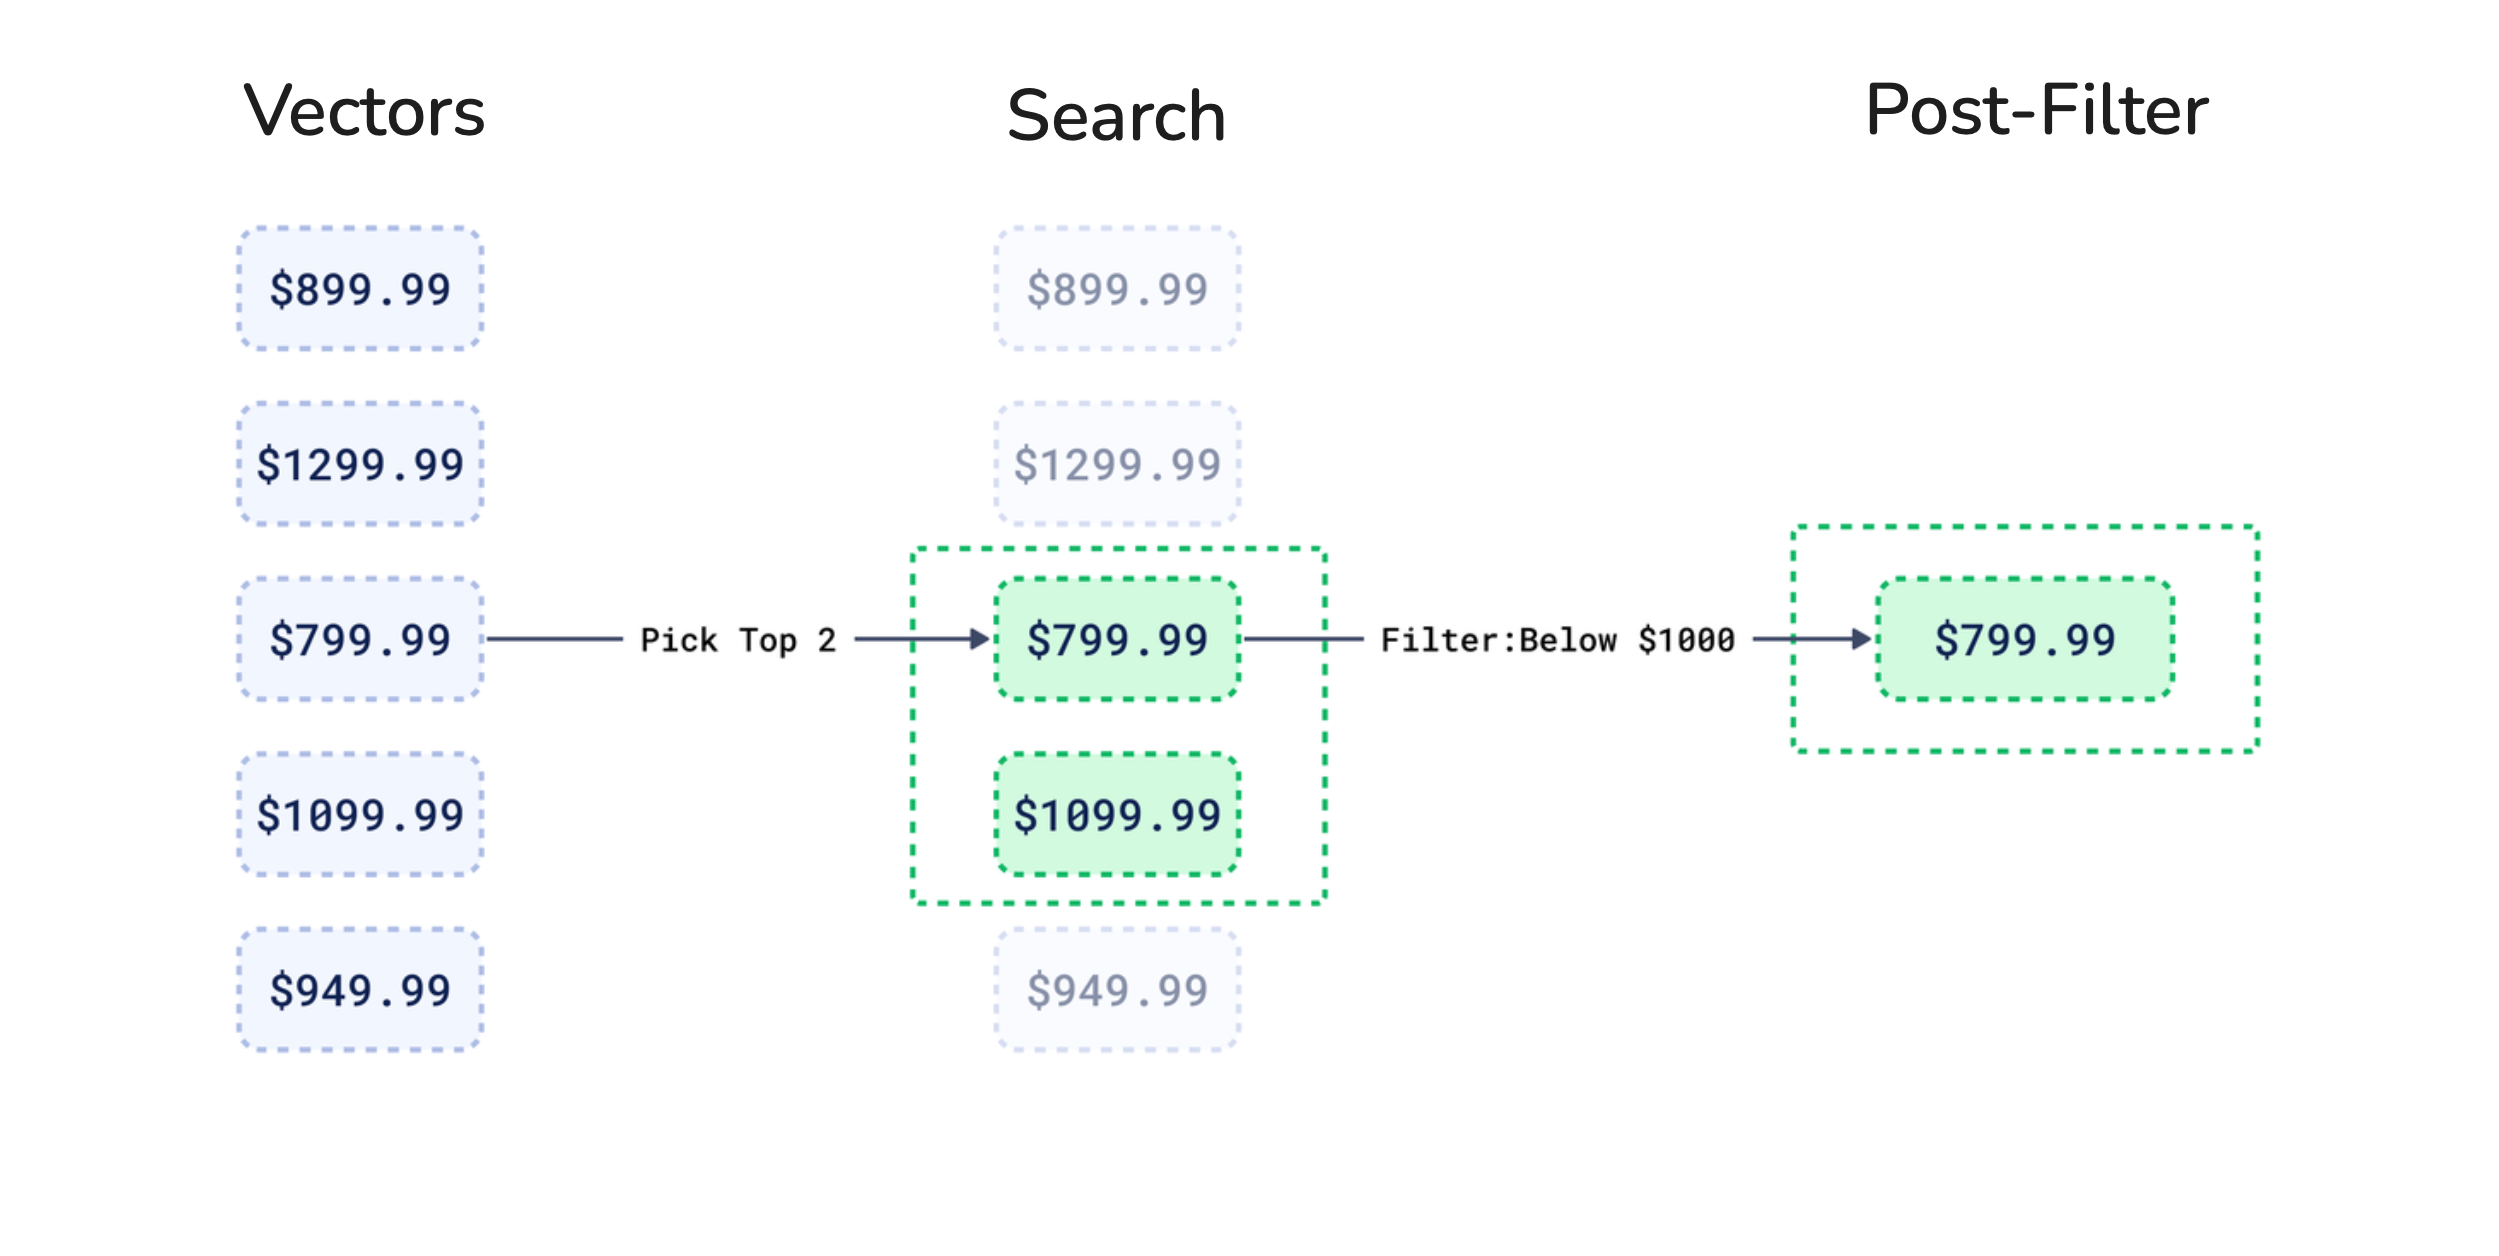
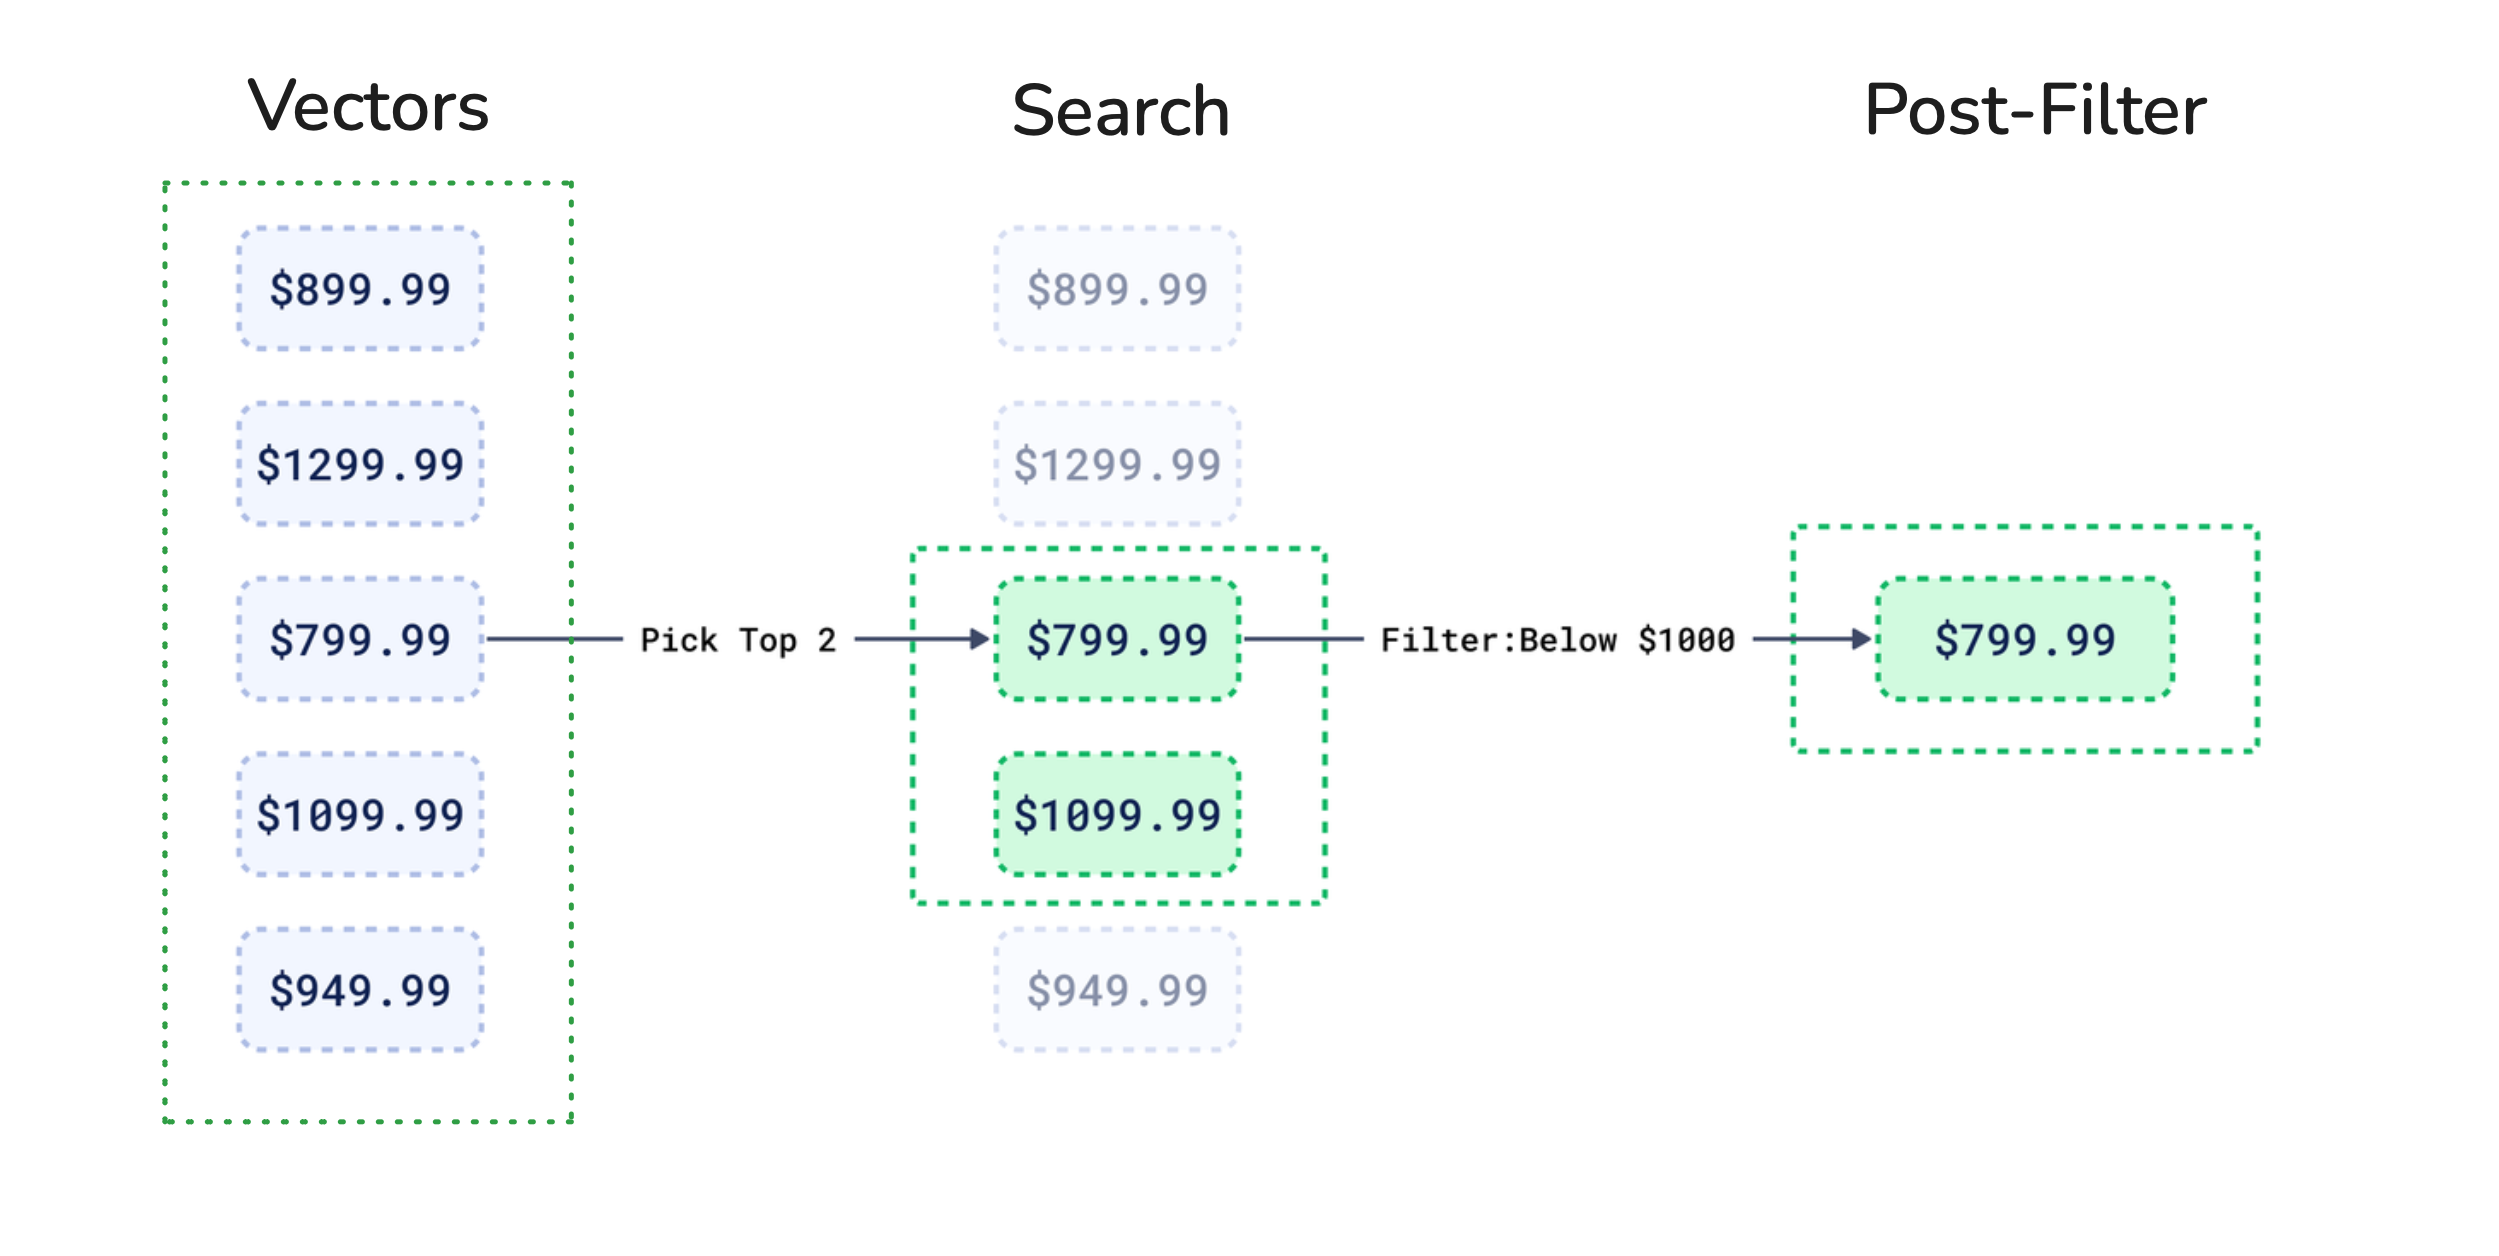
update everything

diff --git a/qdrant-landing/content/articles/vector-search-filtering.md b/qdrant-landing/content/articles/vector-search-filtering.md
@@ -1,5 +1,5 @@
 ---
-title: "A Complete Guide to Filtering"
+title: "A Complete Guide to Filtering in Vector Search"
 short_description: "Merging different search methods to improve the search quality was never easier"
 description: "Learn everything about filtering in Qdrant. Discover key tricks and best practices to boost semantic search performance and reduce Qdrant's resource usage."
 preview_dir: /articles_data/vector-search-filtering/preview
@@ -11,7 +11,7 @@ date: 2024-09-10T00:00:00.000Z
 ---
 Imagine you sell computer hardware. To help shoppers easily find products on your website, you need to have a **user-friendly [search engine](https://qdrant.tech)**.
 
-![vector-search-filtering](/articles_data/vector-search-filtering/vector-search-filtering.png)
+![vector-search-ecommerce](/articles_data/vector-search-filtering/vector-search-ecommerce.png)
 
  If you’re selling computers and have extensive data on laptops, desktops, and accessories, your search feature should guide customers to the exact device they want - or a **very similar** match needed.
 
@@ -34,7 +34,7 @@ Though we may not be able to decipher the vector, we are able to derive addition
 
 ## What is filtering?
 
-When searching for the perfect computer, your customers may end up with results that are mathematically similar to the search entry, but not exact. For example, if they are searching for **laptops under $1000**, a simple [vector search](/advanced-search/) without constraints might still show laptops over $1000. 
+When searching for the perfect computer, your customers may end up with results that are mathematically similar to the search entry, but not exact. For example, if they are searching for **laptops under $1000**, a simple [vector search](/advanced-search/) without constraints might still show other laptops over $1000. 
 
 This is why [semantic search](/advanced-search/) alone **may not be enough**. In order to get the exact result, you would need to enforce a payload filter on the `price`. Only then can you be sure that the search results abide by the chosen characteristic.
 
@@ -88,11 +88,14 @@ The easiest way to reach that "Hello World" moment is to [**try filtering in a l
 
 ## Qdrant's approach to filtering 
 
+Qdrant follows a specific method of searching and filtering through dense vectors. 
+
 Let's take a look at this **3-stage diagram**. In this case, we are trying to find the nearest neighbour to the query vector **(green)**. Your search journey starts at the bottom **(orange)**.
 
 By default, Qdrant connects all your data points within the [**vector index**](/documentation/concepts/indexing/). After you [**introduce filters**](/documentation/concepts/filtering/), some data points become disconnected. Vector search can't cross the grayed out area and it won't reach the nearest neighbor. 
 How can we bridge this gap? 
 
+**Figure 1:** How Qdrant maintains a filterable vector index. 
 ![filterable-vector-index](/articles_data/vector-search-filtering/filterable-vector-index.png)
 
 [**Filterable vector index**](/documentation/concepts/indexing/): This technique builds additional links **(orange)** between leftover data points. The filtered points which stay behind are now traversible once again. Qdrant uses special category-based methods to connect these data points. 
@@ -103,23 +106,27 @@ How can we bridge this gap?
 
 The filterable vector index is Qdrant's solves pre and post-filtering problems by adding specialized links to the search graph. It aims to maintain the speed advantages of vector search while allowing for precise filtering, addressing the inefficiencies that can occur when applying filters after the vector search.
 
-#### Pre-filtering reduces your search options
+#### Pre-filtering 
+
 In pre-filtering, a search engine first narrows down the dataset based on chosen metadata values, and then searches within that filtered subset. This reduces unnecessary computation over a dataset that is potentially much larger.
 
-> If the filters are too restrictive, you might sever links between points too early in the process. When the semantic search process begins, it won’t be able to travel to those locations. 
+The choice between pre-filtering and using the filterable HNSW index depends on filter cardinality. When metadata cardinality is too low, the filter becomes restrictive and it can disrupt the connections within the graph. This leads to fragmented search paths (as in **Figure 1**). When the semantic search process begins, it won’t be able to travel to those locations. 
 
-**Figure 1:** We start with five products with different prices. First, the $1000 price **filter** is applied, narrowing down the selection of laptops. Then, a vector search finds the relevant **results** within this filtered set. Unfortunately, one result is missed. 
+However, Qdrant still benefits from pre-filtering **under certain conditions**. In cases of low cardinality, Qdrant's query planner stops using HNSW and switches over to the payload index alone. This makes the search process much cheaper and faster than if using HNSW.
+
+**Figure 2:** On the user side, this is how filtering looks. We start with five products with different prices. First, the $1000 price **filter** is applied, narrowing down the selection of laptops. Then, a vector search finds the relevant **results** within this filtered set. 
 
 ![pre-filtering-vector-search](/articles_data/vector-search-filtering/pre-filtering.png)
 
-These issues become more pronounced when dealing with HNSW graph structures, where pre-filtering can disrupt the connections within the graph, leading to fragmented search paths. 
+In conclusion, pre-filtering is efficient in specific cases when you use small datasets with low cardinality metadata. However, pre-filtering should not be used over large datasets as it breaks too many links in the HNSW graph, causing lower accuracy.
 
-#### Post-filtering wastes good search results
+#### Post-filtering 
+
 In post-filtering, a search engine first looks for similar vectors and retrieves a larger set of results. Then, it applies filters to those results based on metadata. The problem with post-filtering becomes apparent when using low-cardinality filters. 
 
 > When you apply a low-cardinality filter after performing a vector search, you often end up discarding a large portion of the results that the vector search returned.  
 
-**Figure 2:** In the same example, we have five laptops. First, the vector search finds the relevant **results**, but they may not meet the price match. When the $1000 price **filter** is applied, two other potential results are discarded.
+**Figure 3:** In the same example, we have five laptops. First, the vector search finds the top two relevant **results**, but they may not meet the price match. When the $1000 price **filter** is applied, other potential results are discarded.
 
 ![post-filtering-vector-search](/articles_data/vector-search-filtering/post-filtering.png)
 
@@ -152,13 +159,13 @@ Now, set the filter to "price is less than $1000":
   "range": {
     "gt": null,
     "gte": null,
-    "lt": 1000,
-    "lte": null
+    "lt": null,
+    "lte": 1000
   }
 }
 ```
 
-When a price filter of < $1000 is applied, vector search returns the following results:
+When a price filter of equal/less than $1000 is applied, vector search returns the following results:
 
 ```json
 [
@@ -199,11 +206,13 @@ This specific example uses the `range` condition for filtering. Qdrant, however,
 
 You don't need to use our `search` and `query` APIs to filter through data. The `scroll` API is another option that lets you retrieve lists of points which meet the filters.
 
+If you aren't interested in finding similar points, you can simply list the ones that match a given filter. While search gives you the most similar points based on some query vector, scroll will give you all points matching your filter not considering similarity. 
+
 In Qdrant, scrolling is used to iteratively **retrieve large sets of points from a collection**. It is particularly useful when you’re dealing with a large number of points and don’t want to load them all at once. Instead, Qdrant provides a way to scroll through the points **one page at a time**.
 
 You start by sending a scroll request to Qdrant with specific conditions like filtering by payload, vector search, or other criteria.
 
-Let's retrieve a list of top 10 laptops in the store: 
+Let's retrieve a list of top 10 laptops ordered by price in the store: 
 
 ```http
 POST /collections/online_store/points/scroll
@@ -220,7 +229,12 @@ POST /collections/online_store/points/scroll
     },
     "limit": 10,
     "with_payload": true,
-    "with_vector": false
+    "with_vector": false,
+    "order_by": [
+        {
+            "key": "price",
+        }
+    ]
 }
 ```
 The response contains a batch of points that match the criteria and a reference (offset or next page token) to retrieve the next set of points.
@@ -279,7 +293,7 @@ To ensure that both conditions are applied to the same array element (e.g., food
 Nested filters are used to apply conditions within an array of objects. They ensure that the conditions are evaluated per array element, rather than across all elements.
 
 ```http
-POST /collections/{collection_name}/points/scroll
+POST /collections/dinosaurs/points/scroll
 {
     "filter": {
         "must": [
@@ -302,7 +316,7 @@ POST /collections/{collection_name}/points/scroll
 
 ```python
 client.scroll(
-    collection_name="{collection_name}",
+    collection_name="dinosaurs",
     scroll_filter=models.Filter(
         must=[
             models.FieldCondition(
@@ -317,7 +331,7 @@ client.scroll(
 ```
 
 ```typescript
-client.scroll("{collection_name}", {
+client.scroll("dinosaurs", {
   filter: {
     must: [
       {
@@ -338,7 +352,7 @@ use qdrant_client::qdrant::{Condition, Filter, ScrollPointsBuilder};
 
 client
     .scroll(
-        ScrollPointsBuilder::new("{collection_name}").filter(Filter::must([
+        ScrollPointsBuilder::new("dinosaurs").filter(Filter::must([
             Condition::matches("diet[].food", "meat".to_string()),
             Condition::matches("diet[].likes", true),
         ])),
@@ -363,7 +377,7 @@ QdrantClient client =
 client
     .scrollAsync(
         ScrollPoints.newBuilder()
-            .setCollectionName("{collection_name}")
+            .setCollectionName("dinosaurs")
             .setFilter(
                 Filter.newBuilder()
                     .addAllMust(
@@ -380,7 +394,7 @@ using static Qdrant.Client.Grpc.Conditions;
 var client = new QdrantClient("localhost", 6334);
 
 await client.ScrollAsync(
-	collectionName: "{collection_name}",
+	collectionName: "dinosaurs",
 	filter: MatchKeyword("diet[].food", "meat") & Match("diet[].likes", true)
 );
 ```
@@ -397,7 +411,7 @@ Nested object filters enable querying arrays of objects independently, ensuring 
 This is done by using the `nested` condition type, which consists of a payload key that targets an array and a filter to apply. The key should reference an array of objects and can be written with or without bracket notation (e.g., "data" or "data[]").
 
 ```http
-POST /collections/{collection_name}/points/scroll
+POST /collections/dinosaurs/points/scroll
 {
     "filter": {
         "must": [{
@@ -427,7 +441,7 @@ POST /collections/{collection_name}/points/scroll
 
 ```python
 client.scroll(
-    collection_name="{collection_name}",
+    collection_name="dinosaurs",
     scroll_filter=models.Filter(
         must=[
             models.NestedCondition(
@@ -451,7 +465,7 @@ client.scroll(
 ```
 
 ```typescript
-client.scroll("{collection_name}", {
+client.scroll("dinosaurs", {
   filter: {
     must: [
       {
@@ -481,7 +495,7 @@ use qdrant_client::qdrant::{Condition, Filter, NestedCondition, ScrollPointsBuil
 
 client
     .scroll(
-        ScrollPointsBuilder::new("{collection_name}").filter(Filter::must([NestedCondition {
+        ScrollPointsBuilder::new("dinosaurs").filter(Filter::must([NestedCondition {
             key: "diet".to_string(),
             filter: Some(Filter::must([
                 Condition::matches("food", "meat".to_string()),
@@ -506,7 +520,7 @@ import io.qdrant.client.grpc.Points.ScrollPoints;
 client
     .scrollAsync(
         ScrollPoints.newBuilder()
-            .setCollectionName("{collection_name}")
+            .setCollectionName("dinosaurs")
             .setFilter(
                 Filter.newBuilder()
                     .addMust(
@@ -529,7 +543,7 @@ using static Qdrant.Client.Grpc.Conditions;
 var client = new QdrantClient("localhost", 6334);
 
 await client.ScrollAsync(
-	collectionName: "{collection_name}",
+	collectionName: "dinosaurs",
 	filter: Nested("diet", MatchKeyword("food", "meat") & Match("likes", true))
 );
 ```
@@ -607,6 +621,10 @@ The payload index is also used to accurately estimate **filter cardinality**, wh
 - The planner estimates the cardinality of a filtered result before selecting a strategy.
 - Qdrant retrieves points using the **payload index** if cardinality is below threshold.
 - Qdrant uses the **filterable vector index** if the cardinality is above a threshold
+
+<aside role="status">
+Our default full scan threshold is 10 kilobytes. That means we Qdrant will always use HNSW if it estimates you have at least 27k points (dim=1500). 
+</aside>
 
 #### What happens if you don't use payload indexes?
 
